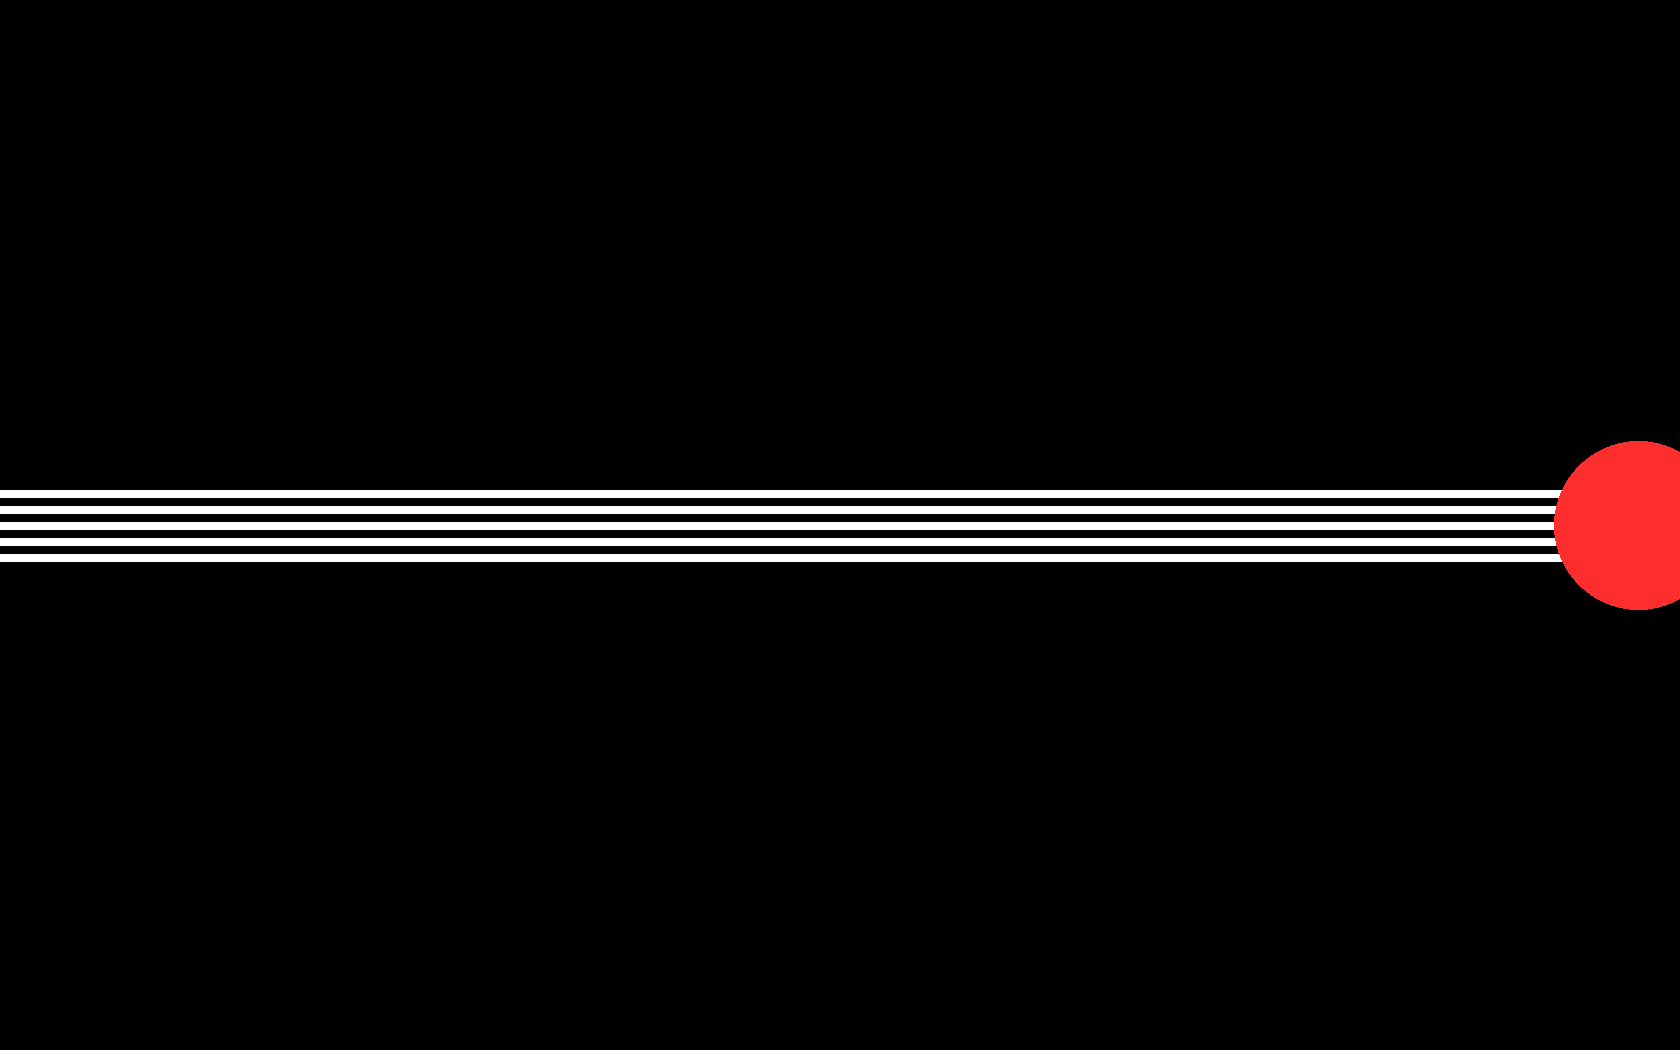
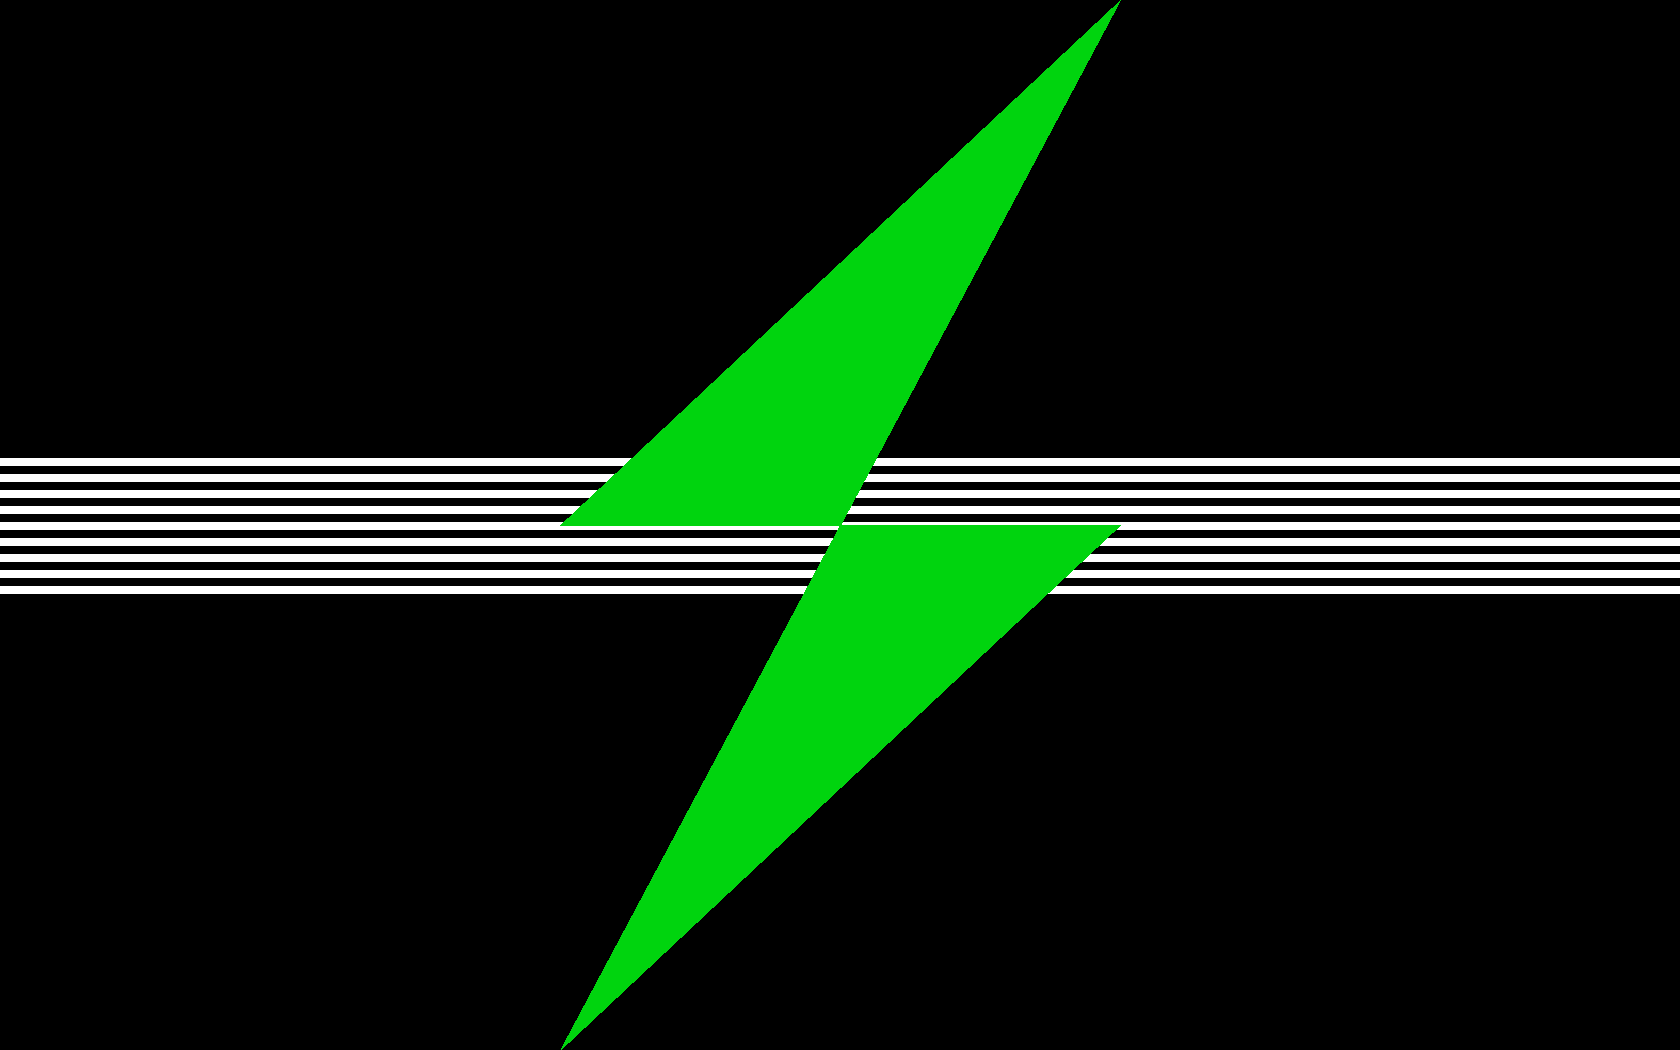
wipimg

Changed region(s): [[0.0, 0.0305, 1.0, 1.0], [0.65, 0.0, 0.681, 0.0305]]

diff --git a/src/main/resources/python_scripts/create_image.py b/src/main/resources/python_scripts/create_image.py
@@ -114,46 +114,97 @@ def draw_z(d, w, h, lw, fill, outline):
         width=lw               # Border thickness in pixels
     )
 
-def draw_z2(d, w, h, lw, fill, outline):
+def draw_z2(d, w, h, fill, tx, ty):
     w6 = w / 6
     w2 = w / 2
     h2 = h / 2
     h6 = h / 6
     wf = 2
     hf = 2
+    # tx = 100
+    # ty = 100
     triangle_vertices = [
-        (w2 + w6, 0),
-        (w2 - w6 * wf, h2 + h6),
-        (w2 , h2 + h6 / hf),
-        (w2 - w6, h),
-        (w2 + w6 * wf, h2 - h6),
-        (w2, h2 - h6 / hf),
-        (w2 + w6, 0)
+        (w2 + w6 + tx, ty),
+        (w2 - w6 * wf + tx, h2 + h6 + ty),
+        (w2 + tx, h2 + h6 / hf + ty),
+        (w2 - w6 + tx, h + ty),
+        (w2 + w6 * wf + tx, h2 - h6 + ty),
+        (w2 + tx, h2 - h6 / hf + ty),
+        (w2 + w6 + tx, ty)
     ]
     d.polygon(
         triangle_vertices,
         fill=fill,     # Color inside the triangle
-        outline=outline,       # Color of the border
-        width=lw               # Border thickness in pixels
+        outline=fill,       # Color of the border
+        width=0               # Border thickness in pixels
     )
 
-
-def img_with_lines(color, background, w, h, lw, line_colors):
-    print('lw=', lw)
-    out = Image.new("RGB", (w, h), background)
-    d = ImageDraw.Draw(out)
-    draw_lines(d, w, h, lw, line_colors) #ok
-    # draw_z2(d, w, h, 0, color, 'red') #ok
-    # d.ellipse([(20, 20), (w / 6, w / 6)], color) #ok, arata ca o luna
-
-    cw = lw * len(color) * random.choice([1, 1.5, 2])
+def draw_circle(d, cw, w, h, color):
     w2 = random.choice(
         [
-            w - cw / 2, w / 2, w / 1.5, w, w / random.randint(3, 9)
+            cw,
+            cw * 2,
+            w - cw * 2,
+            w - cw,
+            w / 2,
+            w / 1.5,
+            w / random.randint(3, 9)
         ]
     )
-    h2 = h / 2
+    h2 = h / random.choice([2,4])
     d.ellipse([( w2 - cw, h2 - cw ), (w2 + cw, h2 + cw)], color) #ok
+
+def img_with_lines(color, background, w, h, lw, line_colors):
+
+    out = Image.new("RGB", (w, h), background)
+    d = ImageDraw.Draw(out)
+
+    rf = len(line_colors)
+    if 1 == rf:
+        rf = 3
+
+    cw = lw * (rf * random.randint(2, rf))
+
+    model = 'Z2'
+    print('pick model ', model)
+
+    if 'Z1' == model:
+        draw_lines(d, w, h, lw, line_colors) #deseneaza liniile
+        zsize = h / 2
+        px = random.choice([
+            w / 2 - zsize / 2, #centru
+            0, #stanga
+            w - zsize  #dreapta
+        ])
+        draw_z2(d, zsize, zsize, color, px, h / 2 - zsize / 2) #ok
+    elif 'Z2' == model:
+        draw_lines(d, w, h, lw, line_colors) #deseneaza liniile
+        draw_z(d, w, h, 0, color, color)
+
+    elif 'CB' == model:
+        draw_circle(d, cw, w, h, color)
+        draw_lines(d, w, h, lw, line_colors)
+    else:
+        #lines then circle
+        draw_lines(d, w, h, lw, line_colors)
+        draw_circle(d, cw, w, h, color)
+
+
+
+
+
+
+    # draw_lines(d, w, h, lw, line_colors) #ok
+    # zsize = h / 3
+    # draw_z2(d, zsize, zsize, 0, color, w / 2 - zsize / 2, h / 2 - zsize / 2) #ok
+    # d.ellipse([(20, 20), (w / 6, w / 6)], color) #ok, arata ca o luna
+
+
+
+    # draw_circle(d, cw, w, h, color)
+
+
+
     return out
 
 # color = random.choice(colors3())
@@ -164,7 +215,7 @@ def img_with_lines(color, background, w, h, lw, line_colors):
 # img = img_sinusoid('black', 'white', WIDTH, HEIGHT, 10)
 # img = img_with_lines('red', 'black', WIDTH, HEIGHT, random.randint(8, 15), ['magenta', 'blue', 'red'])
 img = img_with_lines(
-    random.choice(['#2E90FF', '#D40000', '#F5FF2E', '#2EFF49'
+    random.choice(['#2E90FF', '#D40000', '#F5FF2E', '#2EFF49',
                    '#2EFFEA', '#F12EFF', '#FFAB2E', '#FF662E', '#FF2E2E', '#4A2EFF', '#972EFF',
                    '#D52EFF', '#FF2EBD', '#FF2E6D', '#00D40E', '#0019D4'
                    ])
